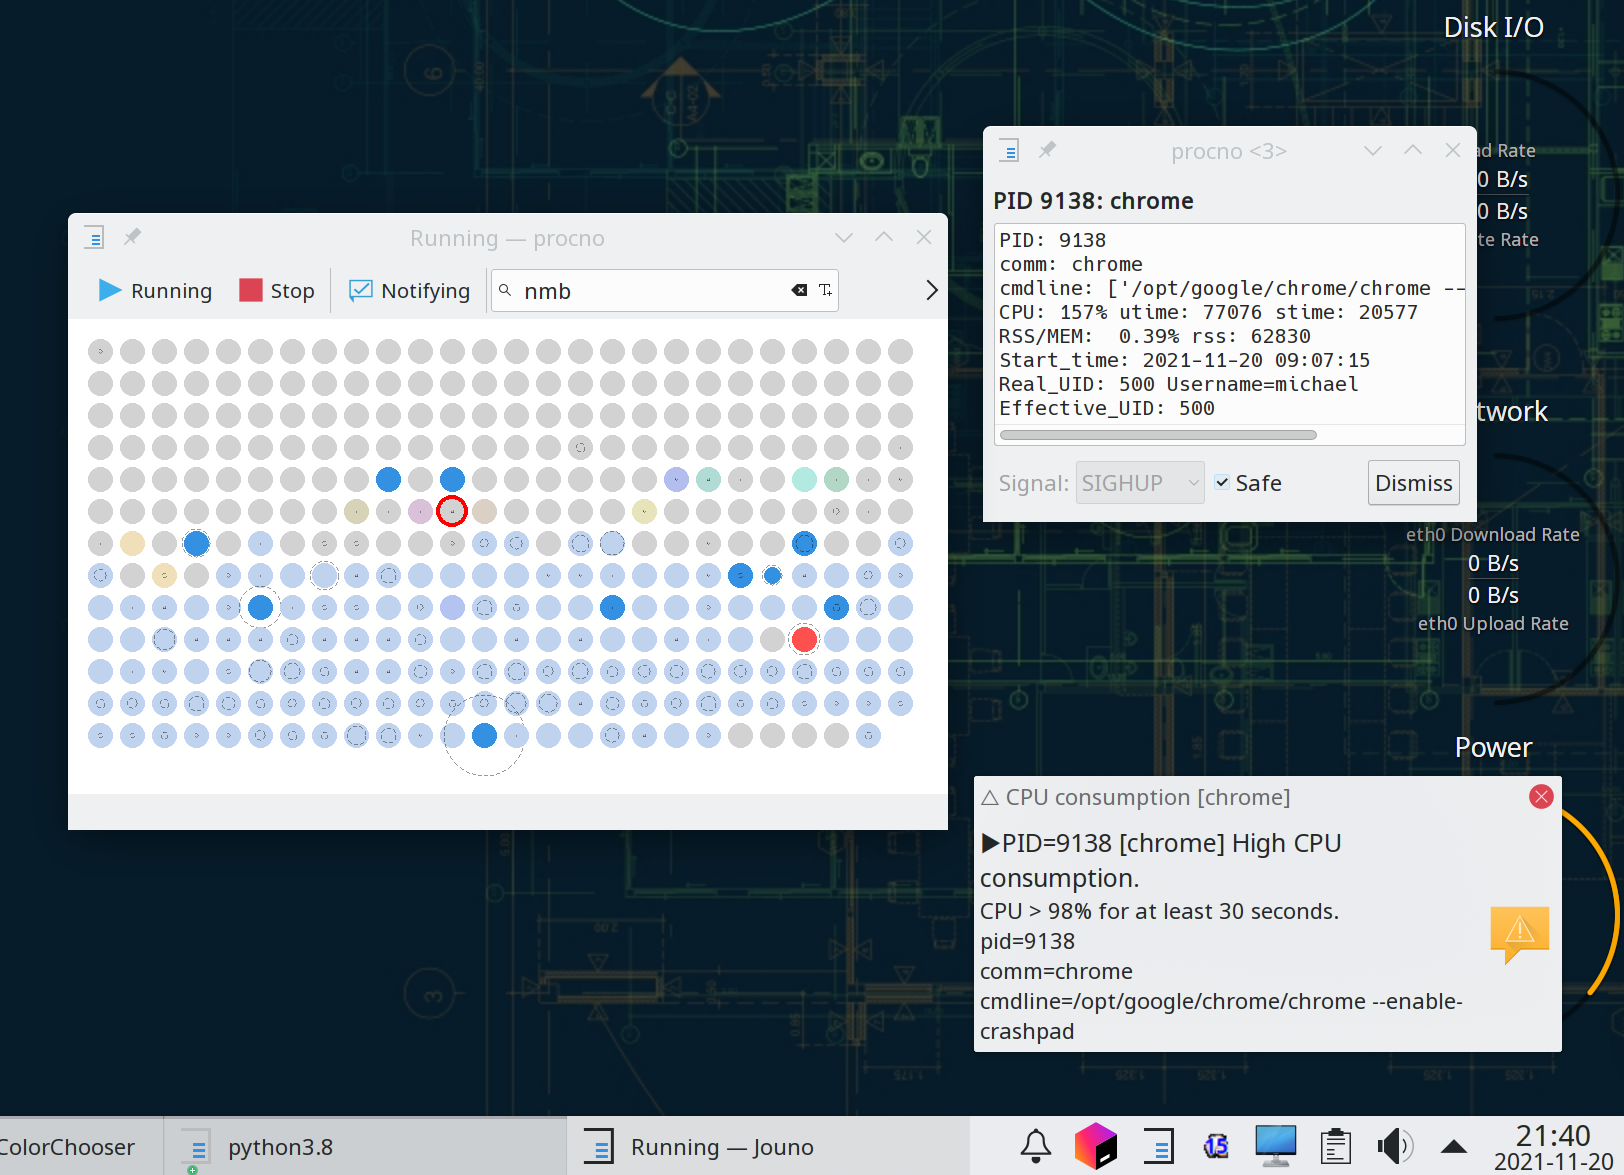
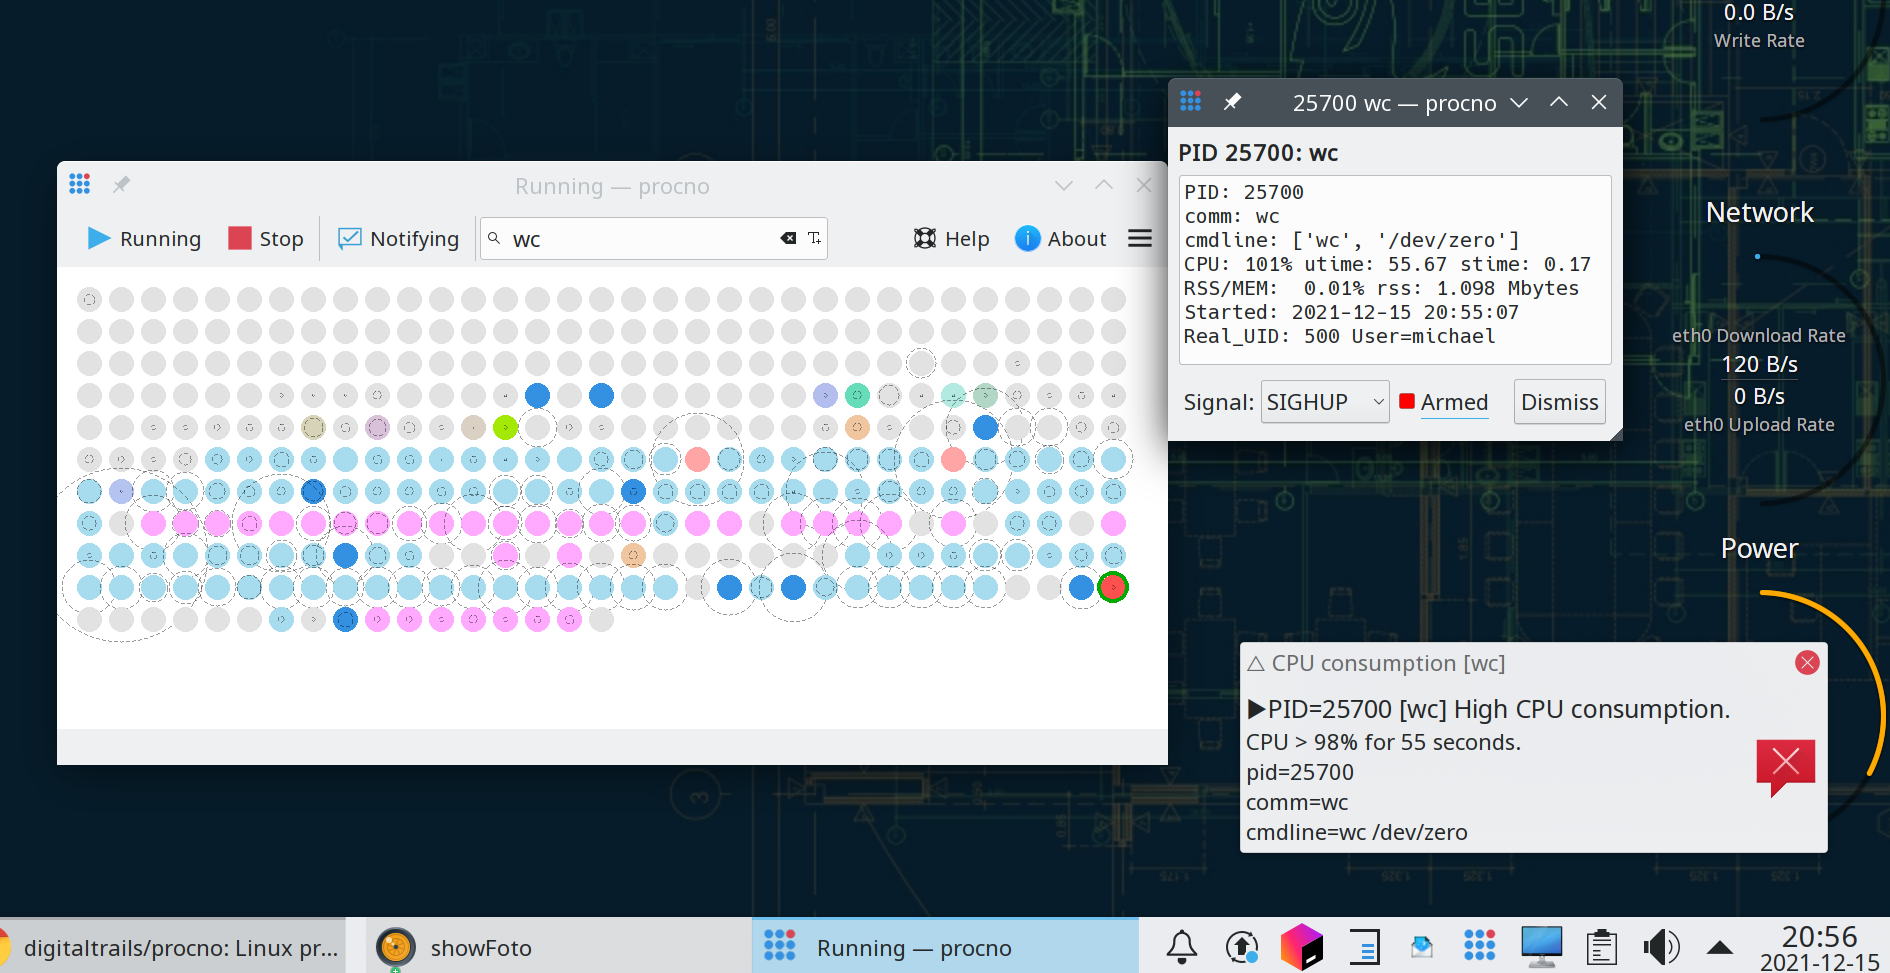
Small screenshot

diff --git a/procno.py b/procno.py
@@ -192,7 +192,7 @@ from PyQt5.QtWidgets import QApplication, QWidget, QVBoxLayout, QMessageBox, QLi
     QColorDialog
 from dbus.mainloop.glib import DBusGMainLoop
 
-PROGRAM_VERSION = '1.1.2'
+PROGRAM_VERSION = '1.1.3'
 
 
 def get_program_name() -> str:
@@ -1937,7 +1937,7 @@ class ProcessDotsWidget(QLabel):
         self.signal_new_data.emit()
 
     def highlight_matches(self, text: str, re_enabled: bool):
-        if text is None or len(text) < 3:
+        if text is None or len(text) < 2:
             self.re_target = None
         else:
             self.re_target = re.compile(text if re_enabled else re.escape(text))
